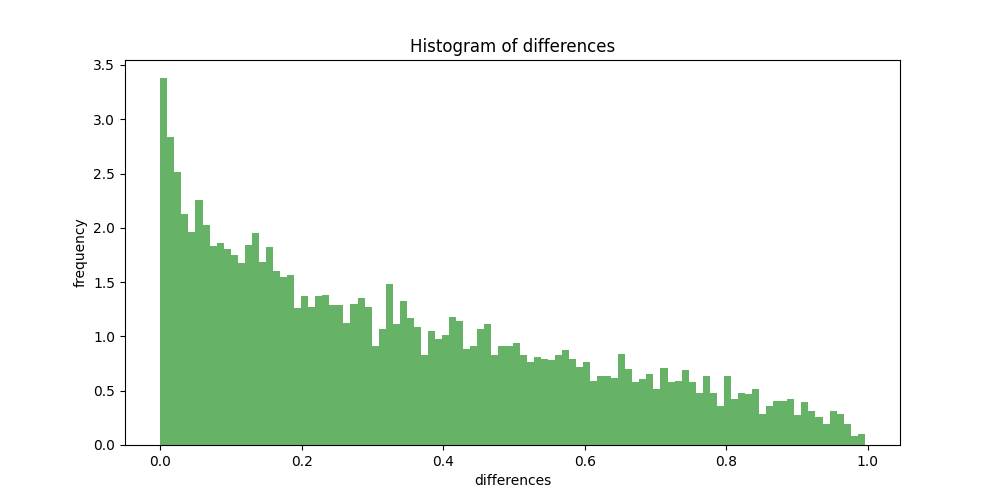
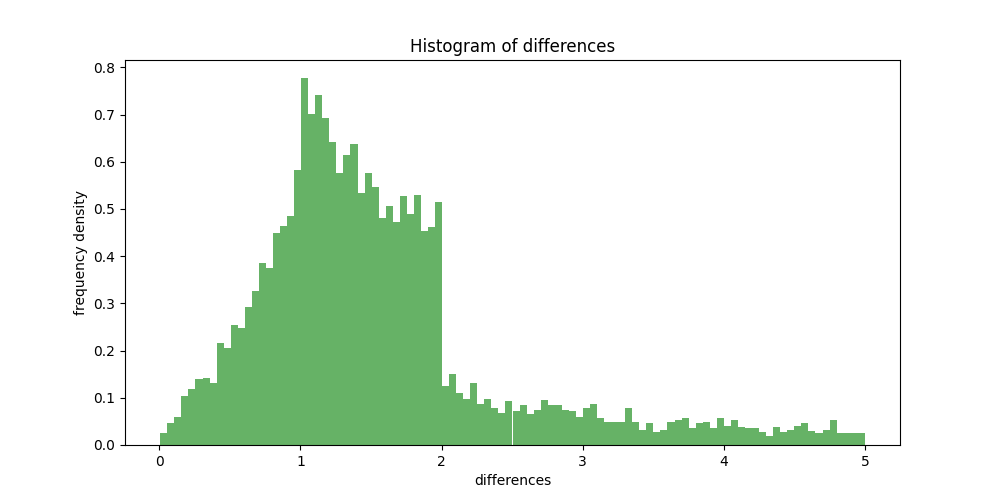
changes to readme and code and pngs

diff --git a/scripts/main.py b/scripts/main.py
@@ -45,38 +45,34 @@ def myownattempt():
                 tmp['center'] = False
                 filtered_data = pd.concat([filtered_data, tmp])
 
-
-
-
     differences = []
     timestamps = []
     skiprow = True
     for i, item in filtered_data.iterrows():
         if item.loc['center'] == True and not skiprow:
-            term1 = filtered_data.at[i, 'signal']
+            term1 = filtered_data.at[i-1, 'signal']
+            term2 = filtered_data.at[i + 1, 'signal']
             if(isinstance(term1,pd.Series)):
                 term1 = term1.iloc[0]
-            term2 = filtered_data.at[i + 1, 'signal']
             if (isinstance(term2, pd.Series)):
                 term2 = term2.iloc[0]
             timestamp = item.at['Time']
             timestamps.append(timestamp)
-            difference = abs(term1 - term2)
-            differences.append(difference)
-
+            difference = abs(term1 - item.at['signal']) + abs(term2 - item.at['signal'])
+            differences.append(difference/item.at['signal'])#need to add relative difference
 
         skiprow = False
-
     finaldf = pd.DataFrame({"differences" : differences, "timestamps" : timestamps})
     finaldf = finaldf.drop_duplicates(subset=['timestamps'], keep='first')
     print(finaldf)
+    finaldf = finaldf[finaldf['differences'] < 5]
     finaldf.plot(x="timestamps", y="differences", kind="line")
     plt.show()
 
     # plt.figure(figsize=(10, 5))
     # plt.hist(finaldf['differences'], bins=100, density=True, alpha=0.6, color='g')
     # plt.xlabel('differences')
-    # plt.ylabel('frequency')
+    # plt.ylabel('frequency density')
     # plt.title('Histogram of differences')
     # plt.show()
 

diff --git a/README.md b/README.md
@@ -1,0 +1,65 @@
+<h4>This repository shows the code and analysis for a time series analysis project </h4>
+
+Timeseries: First two columns: the time series of the signal. So you can see that between times 0 and 0.182162 the signal was 0.0498... then it was 0.0638 until time 1.881267 etc...
+The other column "Trade Timestamps" is a list of trades. So you can see the first trade happened at time 0.021807, the next trade at a time 11.46907. 
+We think the signal might be linked to the arrival of trades, what do you think?
+
+<h5>
+My approach and ideas
+</h5>
+<p>
+My general approach and methodology was to investigate the changes within the time series signal
+around the trade timestamps. Graphically, this can be done by plotting the magnitude derivative of
+the time series signal and the trade timestamps on the same plot. This would show the amount of changes
+occuring to the signal around the trade timestamps. If the signal is linked to the arrival of trades, then
+the magnitude derivative of the signal should be high around the trade timestamps. To increase the quality
+of the time series signal, you can apply a moving average filter. This will smooth out the signal and
+filter out high frequency noise.
+
+
+</p>
+
+<h5>
+My implementation and results
+</h5>
+<p>
+In order to retrieve meaningful values from the time series signal, I went and selected in groups of 3,
+the values of the signal around the trade timestamps. Using this, I calculated an absolute center difference
+between the values of the signal. This is the magnitude derivative of the signal. However, instead of raw
+differences, I opted to calculate the relative change in the signal. This is more in line with a changing
+stock price since the quantity can make up for differences of absolute price. Therefore the relative change
+of price is more important.
+
+I then plotted the relative changes of the signal in a historgram, to ascertain the distribution of the
+relative changes. This is shown in the figure below.
+
+![histogram](data/histogram.png)
+As you can see, this histogram shows that the vast majority of the trade timestamps happen
+when there is a relative change of over 1 in the signal. In addition to this, many large
+relative changes were discarded due to the fact that they were outliers. 
+This histogram suggests that there is a link between the signal and the arrival of trades.
+More specifically that a strong change in the signal is linked to the arrival of trades.
+</p>
+
+
+<h5>
+Evaluation and areas of improvement
+</h5>
+<p>
+This approach is not perfect and there are many areas of improvement. Firstly, in this approach
+filtering is mentioned but it is not applied. Filtering is important in time series signals to
+remove noise. Ideally, you want a signal with a high SNR (signal to noise ratio). This is because
+noise can obscure the signal and make it difficult to analyse. Secondly, it may be more accurate
+to normalise the signal before processing it. This can allow a more accurate comparison between
+values of change.
+
+One thing to note is that this trade timestamps signal can be represented by a number of
+Kronecker deltas at various times. Once you represent it as such, you can apply sophisticated
+signal processing techniques directly between the two time series' and get a more accurate
+analysis.
+
+Finally, given more time and resources, a neural network can be developed which from the
+time series signal can predict the trade timestamps. By excluding a validation and testing
+set, you can evaluate its performance and see if it is a good predictor. This would be a
+more sophisticated approach and would require more time and resources.
+
